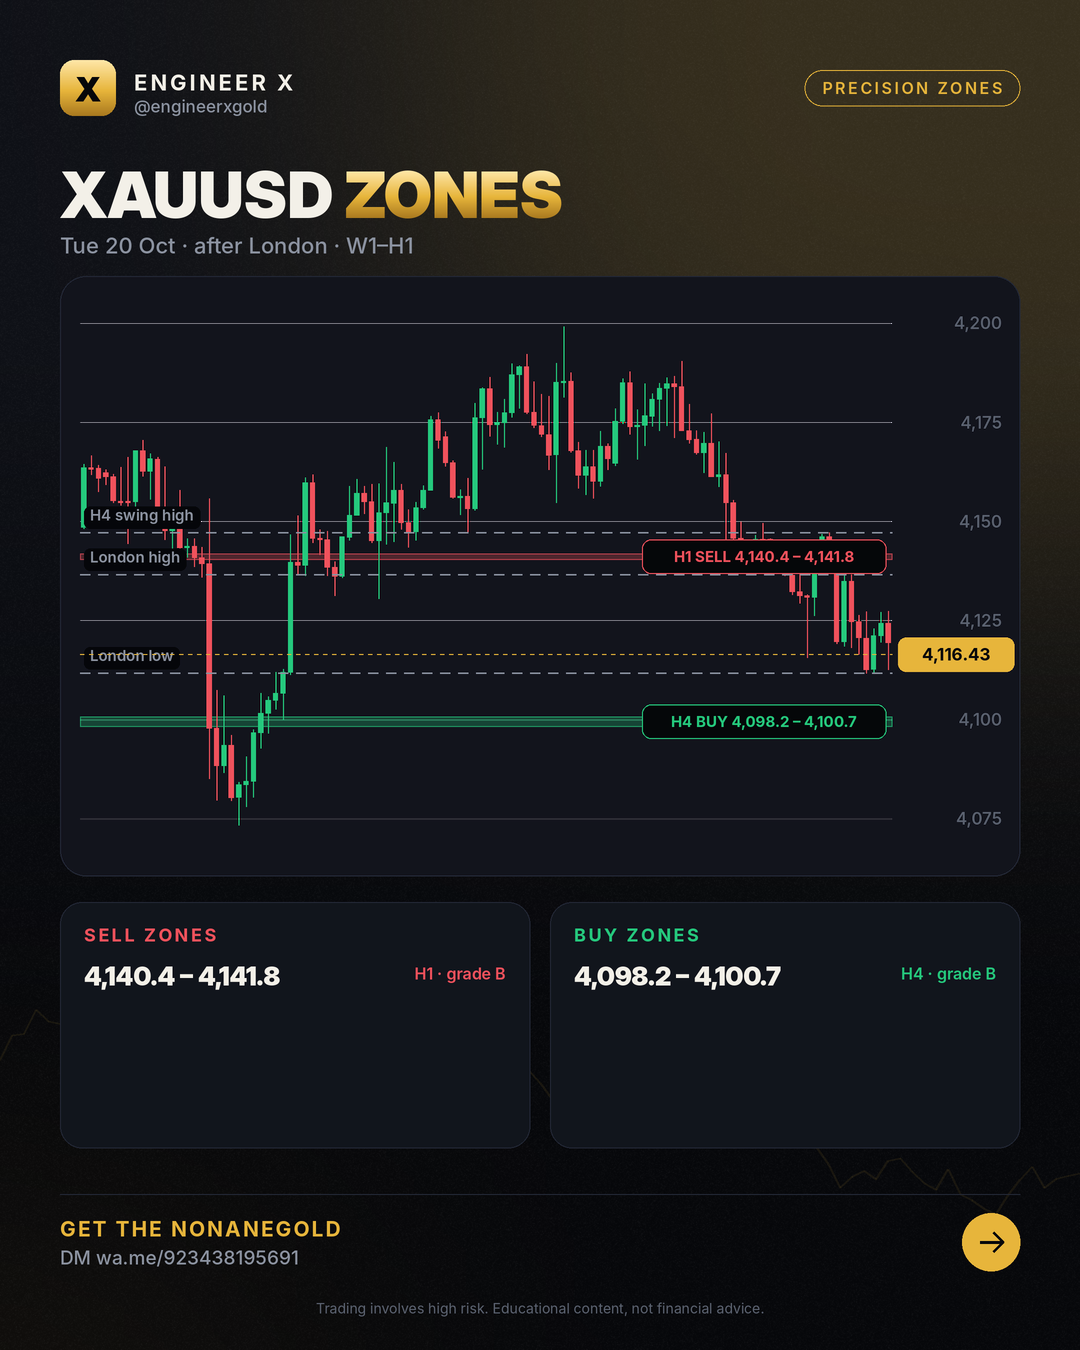
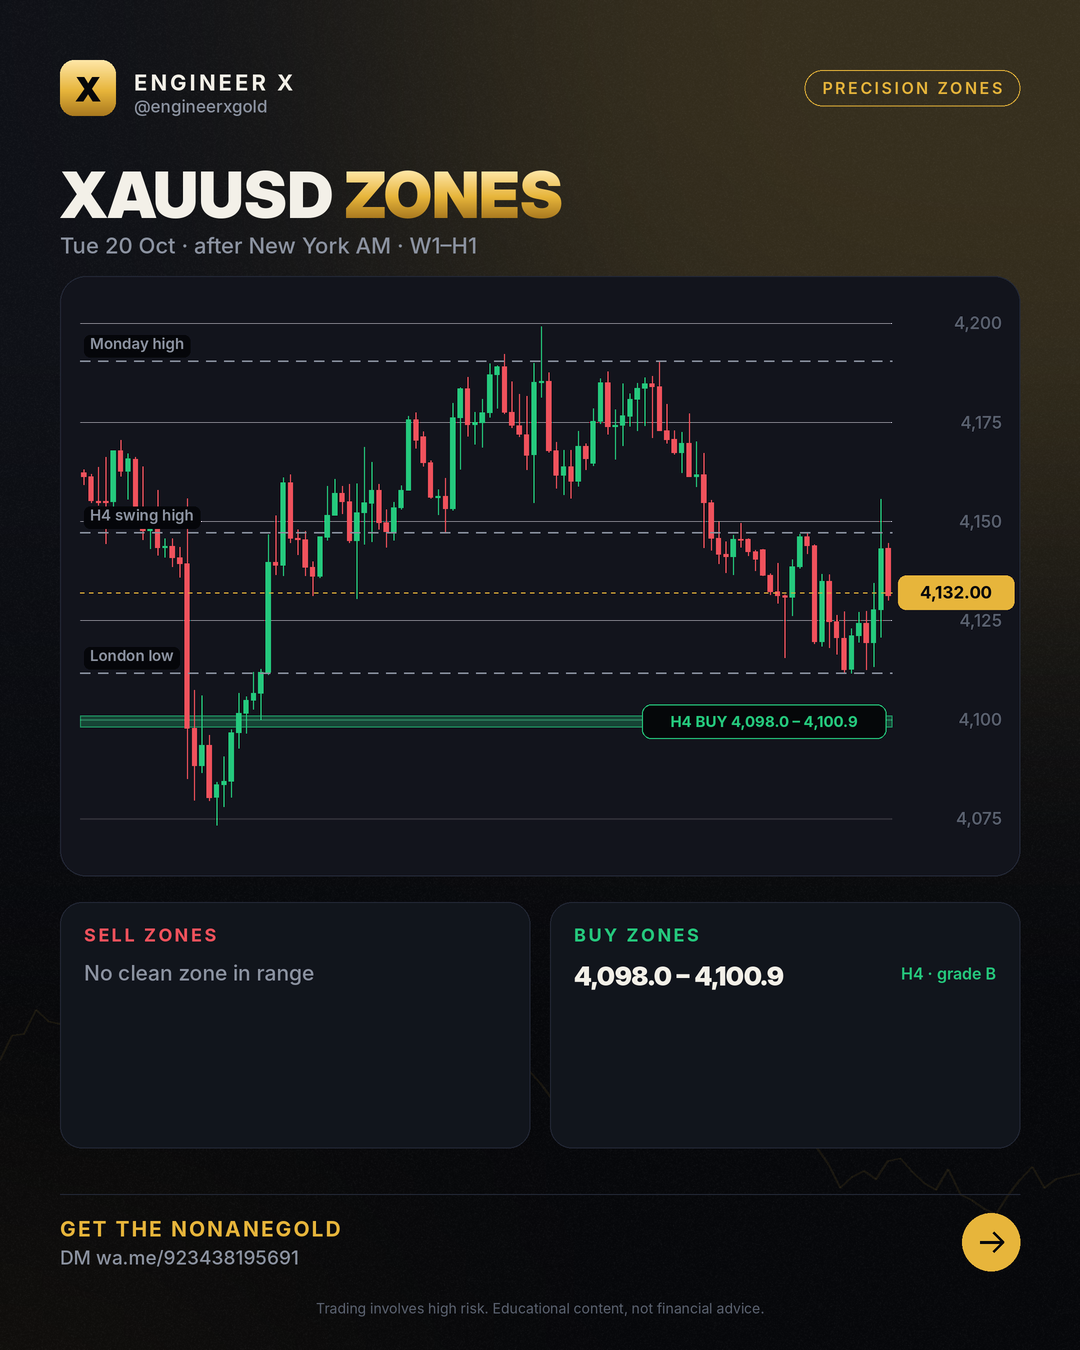
zones 2026-10-20 Tue 20 Oct · after New York AM · W1–H1

diff --git a/zones/2026-10-20/index.html b/zones/2026-10-20/index.html
@@ -4,7 +4,7 @@
 <meta charset="utf-8">
 <meta name="viewport" content="width=device-width,initial-scale=1">
 <title>Gold Price Today – 20 Oct 2026 (W1–H1)</title>
-<meta name="description" content="XAUUSD buy and sell zones for 2026-10-20: tested W1, D1, H4 and H1 zones with invalidation levels, updated after the Asian, London and New York sessions. Price 4,116.43.">
+<meta name="description" content="XAUUSD buy and sell zones for 2026-10-20: tested W1, D1, H4 and H1 zones with invalidation levels, updated after the Asian, London and New York sessions. Price 4,132.00.">
 <meta name="robots" content="index,follow,max-image-preview:large,max-snippet:-1,max-video-preview:-1">
 <meta name="author" content="Engr. M Ahmad Mehmood">
 <link rel="canonical" href="https://engineerxgold.github.io/zones/2026-10-20/">
@@ -12,7 +12,7 @@
 <link rel="apple-touch-icon" href="../../img/logo.png">
 <meta property="og:site_name" content="Engineer X">
 <meta property="og:title" content="Gold Price Today – 20 Oct 2026 (W1–H1)">
-<meta property="og:description" content="XAUUSD buy and sell zones for 2026-10-20: tested W1, D1, H4 and H1 zones with invalidation levels, updated after the Asian, London and New York sessions. Price 4,116.43.">
+<meta property="og:description" content="XAUUSD buy and sell zones for 2026-10-20: tested W1, D1, H4 and H1 zones with invalidation levels, updated after the Asian, London and New York sessions. Price 4,132.00.">
 <meta property="og:type" content="article">
 <meta property="og:url" content="https://engineerxgold.github.io/zones/2026-10-20/">
 <meta property="og:image" content="https://engineerxgold.github.io/zones/img/2026-10-20.png">
@@ -22,7 +22,7 @@
 <meta property="og:locale" content="en_US">
 <meta name="twitter:card" content="summary_large_image">
 <meta name="twitter:title" content="Gold Price Today – 20 Oct 2026 (W1–H1)">
-<meta name="twitter:description" content="XAUUSD buy and sell zones for 2026-10-20: tested W1, D1, H4 and H1 zones with invalidation levels, updated after the Asian, London and New York sessions. Price 4,116.43.">
+<meta name="twitter:description" content="XAUUSD buy and sell zones for 2026-10-20: tested W1, D1, H4 and H1 zones with invalidation levels, updated after the Asian, London and New York sessions. Price 4,132.00.">
 <meta name="twitter:image" content="https://engineerxgold.github.io/zones/img/2026-10-20.png">
 <meta name="twitter:image:alt" content="Gold Price Today – 20 Oct 2026 (W1–H1)">
 
@@ -32,7 +32,7 @@
 <link rel="preconnect" href="https://fonts.googleapis.com">
 <link rel="preconnect" href="https://fonts.gstatic.com" crossorigin>
 <link href="https://fonts.googleapis.com/css2?family=Inter:wght@400;500;600;800;900&display=swap" rel="stylesheet">
-<script type="application/ld+json">{"@context": "https://schema.org", "@type": "Organization", "@id": "https://engineerxgold.github.io/#organization", "name": "Engineer X", "url": "https://engineerxgold.github.io/", "logo": {"@type": "ImageObject", "url": "https://engineerxgold.github.io/img/logo.png", "width": 512, "height": 512}, "sameAs": ["https://t.me/engineerxgold"]}</script><script type="application/ld+json">{"@context": "https://schema.org", "@type": "Article", "headline": "Gold Price Today – 20 Oct 2026 (W1–H1)", "datePublished": "2026-10-20T08:00:00+05:00", "dateModified": "2026-10-20T18:11:36+05:00", "author": {"@type": "Person", "@id": "https://engineerxgold.github.io/about/#author", "name": "Engr. M Ahmad Mehmood", "url": "https://engineerxgold.github.io/about/", "jobTitle": "MQL5 Expert Advisor developer and gold market analyst", "worksFor": {"@id": "https://engineerxgold.github.io/#organization"}}, "publisher": {"@id": "https://engineerxgold.github.io/#organization"}, "image": "https://engineerxgold.github.io/zones/img/2026-10-20.png", "mainEntityOfPage": "https://engineerxgold.github.io/zones/2026-10-20/"}</script>
+<script type="application/ld+json">{"@context": "https://schema.org", "@type": "Organization", "@id": "https://engineerxgold.github.io/#organization", "name": "Engineer X", "url": "https://engineerxgold.github.io/", "logo": {"@type": "ImageObject", "url": "https://engineerxgold.github.io/img/logo.png", "width": 512, "height": 512}, "sameAs": ["https://t.me/engineerxgold"]}</script><script type="application/ld+json">{"@context": "https://schema.org", "@type": "Article", "headline": "Gold Price Today – 20 Oct 2026 (W1–H1)", "datePublished": "2026-10-20T08:00:00+05:00", "dateModified": "2026-10-20T21:03:59+05:00", "author": {"@type": "Person", "@id": "https://engineerxgold.github.io/about/#author", "name": "Engr. M Ahmad Mehmood", "url": "https://engineerxgold.github.io/about/", "jobTitle": "MQL5 Expert Advisor developer and gold market analyst", "worksFor": {"@id": "https://engineerxgold.github.io/#organization"}}, "publisher": {"@id": "https://engineerxgold.github.io/#organization"}, "image": "https://engineerxgold.github.io/zones/img/2026-10-20.png", "mainEntityOfPage": "https://engineerxgold.github.io/zones/2026-10-20/"}</script>
 
 <style>
 :root{--gold:#E7B53B;--gold-hi:#FFE7A8;--bg:#07080B;--bg2:#0E1016;--panel:#12151D;--line:#232836;--green:#25C97D;--red:#F0525C;--text:#F3F0E8;--muted:#8C93A1}
@@ -101,7 +101,7 @@ footer .fl a{color:var(--muted);margin-right:16px}
 <div class="wrap">
 <nav><a class="logo" href="../../"><b>X</b>Engineer X</a>
 <div class="links"><a href="../../zones/">Daily Zones</a><a href="../../blog/">Learn</a><a href="../../ea/">Gold EA</a><a href="../../about/">About</a><a class="cta" href="https://wa.me/923438195691">Get the EA</a></div></nav>
-<article><p class="crumbs"><a href="../../">Home</a> › <a href="../">Zones</a> › 2026-10-20</p><h1>Gold Price Today – 20 Oct 2026 (W1–H1)</h1><p class="byline">Tue 20 Oct · after London · W1–H1 · by Engr. M Ahmad Mehmood</p><img src="../img/2026-10-20.png" alt="XAUUSD zone map 2026-10-20" width="1080" height="1350" loading="eager"><h2>Zones</h2><div style="overflow-x:auto"><table style="width:100%;border-collapse:collapse;font-size:15px"><tr><th align=left>Zone</th><th align=left>Price band</th><th>Grade</th><th align=left>Invalid</th><th align=left>Why</th></tr><tr><td>H1 sell</td><td><b>4,140.37 – 4,141.83</b></td><td>B</td><td>above 4,144.90</td><td>Balanced price range: H1 FVGs overlap 4140.37–4141.83 (S18 p47)</td></tr><tr><td>H4 buy</td><td><b>4,098.22 – 4,100.68</b></td><td>B</td><td>below 4,087.17</td><td>OTE 0.705 of the H4 leg 4073.37 → 4161.78 (S35; 0.62–0.79 = 4106.97–4091.94)</td></tr></table></div><h2>How to read this map</h2><p>Bands are where price is expected to react; they are not entries. Trading beyond the invalidation price ends the zone; each zone counts once (first touch). Highs and lows listed as liquidity are targets: on 10 years of gold price ran through them more often than through random levels.</p><div class="ctabox"><h3>🤖 Trade the zones with the NonaneGold</h3><p>Free signals group access + setup help Message us and we will help you set it up.</p><div class="btns"><a class="btn gold" href="https://wa.me/923438195691">Get the EA on Telegram</a><a class="btn ghost" href="../../ea/">About the EA</a></div></div></article>
+<article><p class="crumbs"><a href="../../">Home</a> › <a href="../">Zones</a> › 2026-10-20</p><h1>Gold Price Today – 20 Oct 2026 (W1–H1)</h1><p class="byline">Tue 20 Oct · after New York AM · W1–H1 · by Engr. M Ahmad Mehmood</p><img src="../img/2026-10-20.png" alt="XAUUSD zone map 2026-10-20" width="1080" height="1350" loading="eager"><h2>Zones</h2><div style="overflow-x:auto"><table style="width:100%;border-collapse:collapse;font-size:15px"><tr><th align=left>Zone</th><th align=left>Price band</th><th>Grade</th><th align=left>Invalid</th><th align=left>Why</th></tr><tr><td>H4 buy</td><td><b>4,098.01 – 4,100.90</b></td><td>B</td><td>below 4,085.00</td><td>OTE 0.705 of the H4 leg 4073.37 → 4161.78 (S35; 0.62–0.79 = 4106.97–4091.94)</td></tr></table></div><h2>How to read this map</h2><p>Bands are where price is expected to react; they are not entries. Trading beyond the invalidation price ends the zone; each zone counts once (first touch). Highs and lows listed as liquidity are targets: on 10 years of gold price ran through them more often than through random levels.</p><div class="ctabox"><h3>🤖 Trade the zones with the NonaneGold</h3><p>Free signals group access + setup help Message us and we will help you set it up.</p><div class="btns"><a class="btn gold" href="https://wa.me/923438195691">Get the EA on Telegram</a><a class="btn ghost" href="../../ea/">About the EA</a></div></div></article>
 <footer>
 <div class="warn"><b>Risk warning:</b> Trading gold, forex and CFDs carries a high risk of losing money and is not suitable for everyone. Past results do not guarantee future results. Everything on this site is educational and not financial advice. We are an introducing partner of our broker and may earn a commission on accounts opened through our link.</div>
 <p class="fl" style="margin-top:18px"><a href="../../about/">About &amp; methodology</a><a href="../../privacy.html">Privacy</a><a href="../../terms.html">Terms &amp; risk disclosure</a><a href="../../feed.xml">RSS</a><a href="https://t.me/engineerxgold">Telegram</a></p>

diff --git a/zones/index.html b/zones/index.html
@@ -4,7 +4,7 @@
 <meta charset="utf-8">
 <meta name="viewport" content="width=device-width,initial-scale=1">
 <title>XAUUSD Zones Today – Buy &amp; Sell Zones (H4, H1) | Engineer X</title>
-<meta name="description" content="XAUUSD buy and sell zones for 2026-10-20: tested W1, D1, H4 and H1 zones with invalidation levels, updated after the Asian, London and New York sessions. Price 4,116.43.">
+<meta name="description" content="XAUUSD buy and sell zones for 2026-10-20: tested W1, D1, H4 and H1 zones with invalidation levels, updated after the Asian, London and New York sessions. Price 4,132.00.">
 <meta name="robots" content="index,follow,max-image-preview:large,max-snippet:-1,max-video-preview:-1">
 <meta name="author" content="Engr. M Ahmad Mehmood">
 <link rel="canonical" href="https://engineerxgold.github.io/zones/">
@@ -12,7 +12,7 @@
 <link rel="apple-touch-icon" href="../img/logo.png">
 <meta property="og:site_name" content="Engineer X">
 <meta property="og:title" content="XAUUSD Zones Today – Buy &amp; Sell Zones (H4, H1) | Engineer X">
-<meta property="og:description" content="XAUUSD buy and sell zones for 2026-10-20: tested W1, D1, H4 and H1 zones with invalidation levels, updated after the Asian, London and New York sessions. Price 4,116.43.">
+<meta property="og:description" content="XAUUSD buy and sell zones for 2026-10-20: tested W1, D1, H4 and H1 zones with invalidation levels, updated after the Asian, London and New York sessions. Price 4,132.00.">
 <meta property="og:type" content="website">
 <meta property="og:url" content="https://engineerxgold.github.io/zones/">
 <meta property="og:image" content="https://engineerxgold.github.io/zones/img/2026-10-20.png">
@@ -22,7 +22,7 @@
 <meta property="og:locale" content="en_US">
 <meta name="twitter:card" content="summary_large_image">
 <meta name="twitter:title" content="XAUUSD Zones Today – Buy &amp; Sell Zones (H4, H1) | Engineer X">
-<meta name="twitter:description" content="XAUUSD buy and sell zones for 2026-10-20: tested W1, D1, H4 and H1 zones with invalidation levels, updated after the Asian, London and New York sessions. Price 4,116.43.">
+<meta name="twitter:description" content="XAUUSD buy and sell zones for 2026-10-20: tested W1, D1, H4 and H1 zones with invalidation levels, updated after the Asian, London and New York sessions. Price 4,132.00.">
 <meta name="twitter:image" content="https://engineerxgold.github.io/zones/img/2026-10-20.png">
 <meta name="twitter:image:alt" content="XAUUSD Zones Today – Buy &amp; Sell Zones (H4, H1) | Engineer X">
 
@@ -101,7 +101,7 @@ footer .fl a{color:var(--muted);margin-right:16px}
 <div class="wrap">
 <nav><a class="logo" href="../"><b>X</b>Engineer X</a>
 <div class="links"><a href="../zones/">Daily Zones</a><a href="../blog/">Learn</a><a href="../ea/">Gold EA</a><a href="../about/">About</a><a class="cta" href="https://wa.me/923438195691">Get the EA</a></div></nav>
-<section class="hero"><span class="chip">Updated Tue 20 Oct · after London · W1–H1</span><h1>XAUUSD <span class="gold">precision zones</span></h1><p>XAUUSD buy and sell zones for 2026-10-20: tested W1, D1, H4 and H1 zones with invalidation levels, updated after the Asian, London and New York sessions. Price 4,116.43.</p></section><img src="img/2026-10-20.png" alt="Latest XAUUSD zone map" width="1080" height="1350"><section><h2>Current zones</h2><div style="overflow-x:auto"><table style="width:100%;border-collapse:collapse;font-size:15px"><tr><th align=left>Zone</th><th align=left>Price band</th><th>Grade</th><th align=left>Invalid</th><th align=left>Why</th></tr><tr><td>H1 sell</td><td><b>4,140.37 – 4,141.83</b></td><td>B</td><td>above 4,144.90</td><td>Balanced price range: H1 FVGs overlap 4140.37–4141.83 (S18 p47)</td></tr><tr><td>H4 buy</td><td><b>4,098.22 – 4,100.68</b></td><td>B</td><td>below 4,087.17</td><td>OTE 0.705 of the H4 leg 4073.37 → 4161.78 (S35; 0.62–0.79 = 4106.97–4091.94)</td></tr></table></div></section><section><h2>Honest scorecard</h2><div class="grid"><div class="card"><div class="n">134</div><p>zones published (30 days)</p></div><div class="card"><div class="n">58</div><p>held (moved 1 hourly ATR away)</p></div><div class="card"><div class="n">5</div><p>broke (traded beyond the invalidation)</p></div><div class="card"><div class="n">92%</div><p>hold rate of decided zones</p></div></div></section><div class="ctabox"><h3>🤖 Trade the zones with the NonaneGold</h3><p>Free signals group access + setup help Message us and we will help you set it up.</p><div class="btns"><a class="btn gold" href="https://wa.me/923438195691">Get the EA on Telegram</a><a class="btn ghost" href="../ea/">About the EA</a></div></div><section><h2>Archive</h2><div class="grid posts"><a class="card" href="2026-10-20/"><span class="date">2026-10-20</span><h3>XAUUSD zones 2026-10-20</h3></a><a class="card" href="2026-10-19/"><span class="date">2026-10-19</span><h3>XAUUSD zones 2026-10-19</h3></a><a class="card" href="2026-10-16/"><span class="date">2026-10-16</span><h3>XAUUSD zones 2026-10-16</h3></a><a class="card" href="2026-10-15/"><span class="date">2026-10-15</span><h3>XAUUSD zones 2026-10-15</h3></a><a class="card" href="2026-10-14/"><span class="date">2026-10-14</span><h3>XAUUSD zones 2026-10-14</h3></a><a class="card" href="2026-10-13/"><span class="date">2026-10-13</span><h3>XAUUSD zones 2026-10-13</h3></a></div></section>
+<section class="hero"><span class="chip">Updated Tue 20 Oct · after New York AM · W1–H1</span><h1>XAUUSD <span class="gold">precision zones</span></h1><p>XAUUSD buy and sell zones for 2026-10-20: tested W1, D1, H4 and H1 zones with invalidation levels, updated after the Asian, London and New York sessions. Price 4,132.00.</p></section><img src="img/2026-10-20.png" alt="Latest XAUUSD zone map" width="1080" height="1350"><section><h2>Current zones</h2><div style="overflow-x:auto"><table style="width:100%;border-collapse:collapse;font-size:15px"><tr><th align=left>Zone</th><th align=left>Price band</th><th>Grade</th><th align=left>Invalid</th><th align=left>Why</th></tr><tr><td>H4 buy</td><td><b>4,098.01 – 4,100.90</b></td><td>B</td><td>below 4,085.00</td><td>OTE 0.705 of the H4 leg 4073.37 → 4161.78 (S35; 0.62–0.79 = 4106.97–4091.94)</td></tr></table></div></section><section><h2>Honest scorecard</h2><div class="grid"><div class="card"><div class="n">135</div><p>zones published (30 days)</p></div><div class="card"><div class="n">58</div><p>held (moved 1 hourly ATR away)</p></div><div class="card"><div class="n">6</div><p>broke (traded beyond the invalidation)</p></div><div class="card"><div class="n">91%</div><p>hold rate of decided zones</p></div></div></section><div class="ctabox"><h3>🤖 Trade the zones with the NonaneGold</h3><p>Free signals group access + setup help Message us and we will help you set it up.</p><div class="btns"><a class="btn gold" href="https://wa.me/923438195691">Get the EA on Telegram</a><a class="btn ghost" href="../ea/">About the EA</a></div></div><section><h2>Archive</h2><div class="grid posts"><a class="card" href="2026-10-20/"><span class="date">2026-10-20</span><h3>XAUUSD zones 2026-10-20</h3></a><a class="card" href="2026-10-19/"><span class="date">2026-10-19</span><h3>XAUUSD zones 2026-10-19</h3></a><a class="card" href="2026-10-16/"><span class="date">2026-10-16</span><h3>XAUUSD zones 2026-10-16</h3></a><a class="card" href="2026-10-15/"><span class="date">2026-10-15</span><h3>XAUUSD zones 2026-10-15</h3></a><a class="card" href="2026-10-14/"><span class="date">2026-10-14</span><h3>XAUUSD zones 2026-10-14</h3></a><a class="card" href="2026-10-13/"><span class="date">2026-10-13</span><h3>XAUUSD zones 2026-10-13</h3></a></div></section>
 <footer>
 <div class="warn"><b>Risk warning:</b> Trading gold, forex and CFDs carries a high risk of losing money and is not suitable for everyone. Past results do not guarantee future results. Everything on this site is educational and not financial advice. We are an introducing partner of our broker and may earn a commission on accounts opened through our link.</div>
 <p class="fl" style="margin-top:18px"><a href="../about/">About &amp; methodology</a><a href="../privacy.html">Privacy</a><a href="../terms.html">Terms &amp; risk disclosure</a><a href="../feed.xml">RSS</a><a href="https://t.me/engineerxgold">Telegram</a></p>

diff --git a/index.html b/index.html
@@ -101,7 +101,7 @@ footer .fl a{color:var(--muted);margin-right:16px}
 <div class="wrap">
 <nav><a class="logo" href="./"><b>X</b>Engineer X</a>
 <div class="links"><a href="./zones/">Daily Zones</a><a href="./blog/">Learn</a><a href="./ea/">Gold EA</a><a href="./about/">About</a><a class="cta" href="https://wa.me/923438195691">Get the EA</a></div></nav>
-<section class="hero"><span class="chip">XAUUSD · W1–H1 · every session</span><h1>Gold <span class="gold">precision zones</span>, updated after every session</h1><p>Tested buy and sell zones with clear invalidation, a scorecard of every result, and the NonaneGold for traders who want it automated.</p><div class="btns"><a class="btn gold" href="zones/">See today's zones</a><a class="btn ghost" href="https://wa.me/923438195691">Get the EA</a></div></section><section><h2>Latest map Tue 20 Oct · after London · W1–H1</h2><img src="zones/img/2026-10-20.png" alt="Latest XAUUSD zones" width="1080" height="1350"></section><div class="ctabox"><h3>🤖 Trade the zones with the NonaneGold</h3><p>Free signals group access + setup help Message us and we will help you set it up.</p><div class="btns"><a class="btn gold" href="https://wa.me/923438195691">Get the EA on Telegram</a><a class="btn ghost" href="ea/">About the EA</a></div></div><section><h2>Learn</h2><div class="grid posts"><a class="card" href="blog/gold-supply-and-demand-zones-h4-w1-map-analysis/"><span class="date">2026-10-20</span><h3>Gold Supply and Demand Zones: H4 &amp; W1 Map Analysis</h3></a><a class="card" href="blog/gold-trading-reading-h4-trend-liquidity-zones/"><span class="date">2026-10-19</span><h3>Gold Trading: Reading H4 Trend &amp; Liquidity Zones</h3></a><a class="card" href="blog/gold-support-resistance-live-technical-map-zones/"><span class="date">2026-10-18</span><h3>Gold Support Resistance: Live Technical Map &amp; Zones</h3></a><a class="card" href="blog/gold-supply-and-demand-zones-live-trading-map-guide/"><span class="date">2026-10-17</span><h3>Gold Supply and Demand Zones: Live Trading Map &amp; Guide</h3></a><a class="card" href="blog/gold-trading-h4-trend-and-live-market-zones-map/"><span class="date">2026-10-16</span><h3>Gold Trading: H4 Trend and Live Market Zones Map</h3></a><a class="card" href="blog/gold-price-today-navigating-h4-downtrend-key-zones/"><span class="date">2026-10-15</span><h3>Gold Price Today: Navigating H4 Downtrend &amp; Key Zones</h3></a></div></section><section><h2>FAQ</h2><details><summary>What is a precision zone?</summary><p>A point of interest from a trading book (OTE 0.705, balanced price range, weekly close level, daily order block) that held better than random levels on 10 years of gold. Each zone has an invalidation price.</p></details><details><summary>How often are the zones updated?</summary><p>A daily plan at the Asian open, then after the Asian, London and New York sessions.</p></details><details><summary>Are these trade signals?</summary><p>No. Zones are areas to watch. Wait for your own confirmation and manage risk.</p></details><details><summary>How do I get the Gold EA?</summary><p>Message us on Telegram or WhatsApp; we answer and help with the setup.</p></details></section>
+<section class="hero"><span class="chip">XAUUSD · W1–H1 · every session</span><h1>Gold <span class="gold">precision zones</span>, updated after every session</h1><p>Tested buy and sell zones with clear invalidation, a scorecard of every result, and the NonaneGold for traders who want it automated.</p><div class="btns"><a class="btn gold" href="zones/">See today's zones</a><a class="btn ghost" href="https://wa.me/923438195691">Get the EA</a></div></section><section><h2>Latest map Tue 20 Oct · after New York AM · W1–H1</h2><img src="zones/img/2026-10-20.png" alt="Latest XAUUSD zones" width="1080" height="1350"></section><div class="ctabox"><h3>🤖 Trade the zones with the NonaneGold</h3><p>Free signals group access + setup help Message us and we will help you set it up.</p><div class="btns"><a class="btn gold" href="https://wa.me/923438195691">Get the EA on Telegram</a><a class="btn ghost" href="ea/">About the EA</a></div></div><section><h2>Learn</h2><div class="grid posts"><a class="card" href="blog/gold-supply-and-demand-zones-h4-w1-map-analysis/"><span class="date">2026-10-20</span><h3>Gold Supply and Demand Zones: H4 &amp; W1 Map Analysis</h3></a><a class="card" href="blog/gold-trading-reading-h4-trend-liquidity-zones/"><span class="date">2026-10-19</span><h3>Gold Trading: Reading H4 Trend &amp; Liquidity Zones</h3></a><a class="card" href="blog/gold-support-resistance-live-technical-map-zones/"><span class="date">2026-10-18</span><h3>Gold Support Resistance: Live Technical Map &amp; Zones</h3></a><a class="card" href="blog/gold-supply-and-demand-zones-live-trading-map-guide/"><span class="date">2026-10-17</span><h3>Gold Supply and Demand Zones: Live Trading Map &amp; Guide</h3></a><a class="card" href="blog/gold-trading-h4-trend-and-live-market-zones-map/"><span class="date">2026-10-16</span><h3>Gold Trading: H4 Trend and Live Market Zones Map</h3></a><a class="card" href="blog/gold-price-today-navigating-h4-downtrend-key-zones/"><span class="date">2026-10-15</span><h3>Gold Price Today: Navigating H4 Downtrend &amp; Key Zones</h3></a></div></section><section><h2>FAQ</h2><details><summary>What is a precision zone?</summary><p>A point of interest from a trading book (OTE 0.705, balanced price range, weekly close level, daily order block) that held better than random levels on 10 years of gold. Each zone has an invalidation price.</p></details><details><summary>How often are the zones updated?</summary><p>A daily plan at the Asian open, then after the Asian, London and New York sessions.</p></details><details><summary>Are these trade signals?</summary><p>No. Zones are areas to watch. Wait for your own confirmation and manage risk.</p></details><details><summary>How do I get the Gold EA?</summary><p>Message us on Telegram or WhatsApp; we answer and help with the setup.</p></details></section>
 <footer>
 <div class="warn"><b>Risk warning:</b> Trading gold, forex and CFDs carries a high risk of losing money and is not suitable for everyone. Past results do not guarantee future results. Everything on this site is educational and not financial advice. We are an introducing partner of our broker and may earn a commission on accounts opened through our link.</div>
 <p class="fl" style="margin-top:18px"><a href="./about/">About &amp; methodology</a><a href="./privacy.html">Privacy</a><a href="./terms.html">Terms &amp; risk disclosure</a><a href="./feed.xml">RSS</a><a href="https://t.me/engineerxgold">Telegram</a></p>
